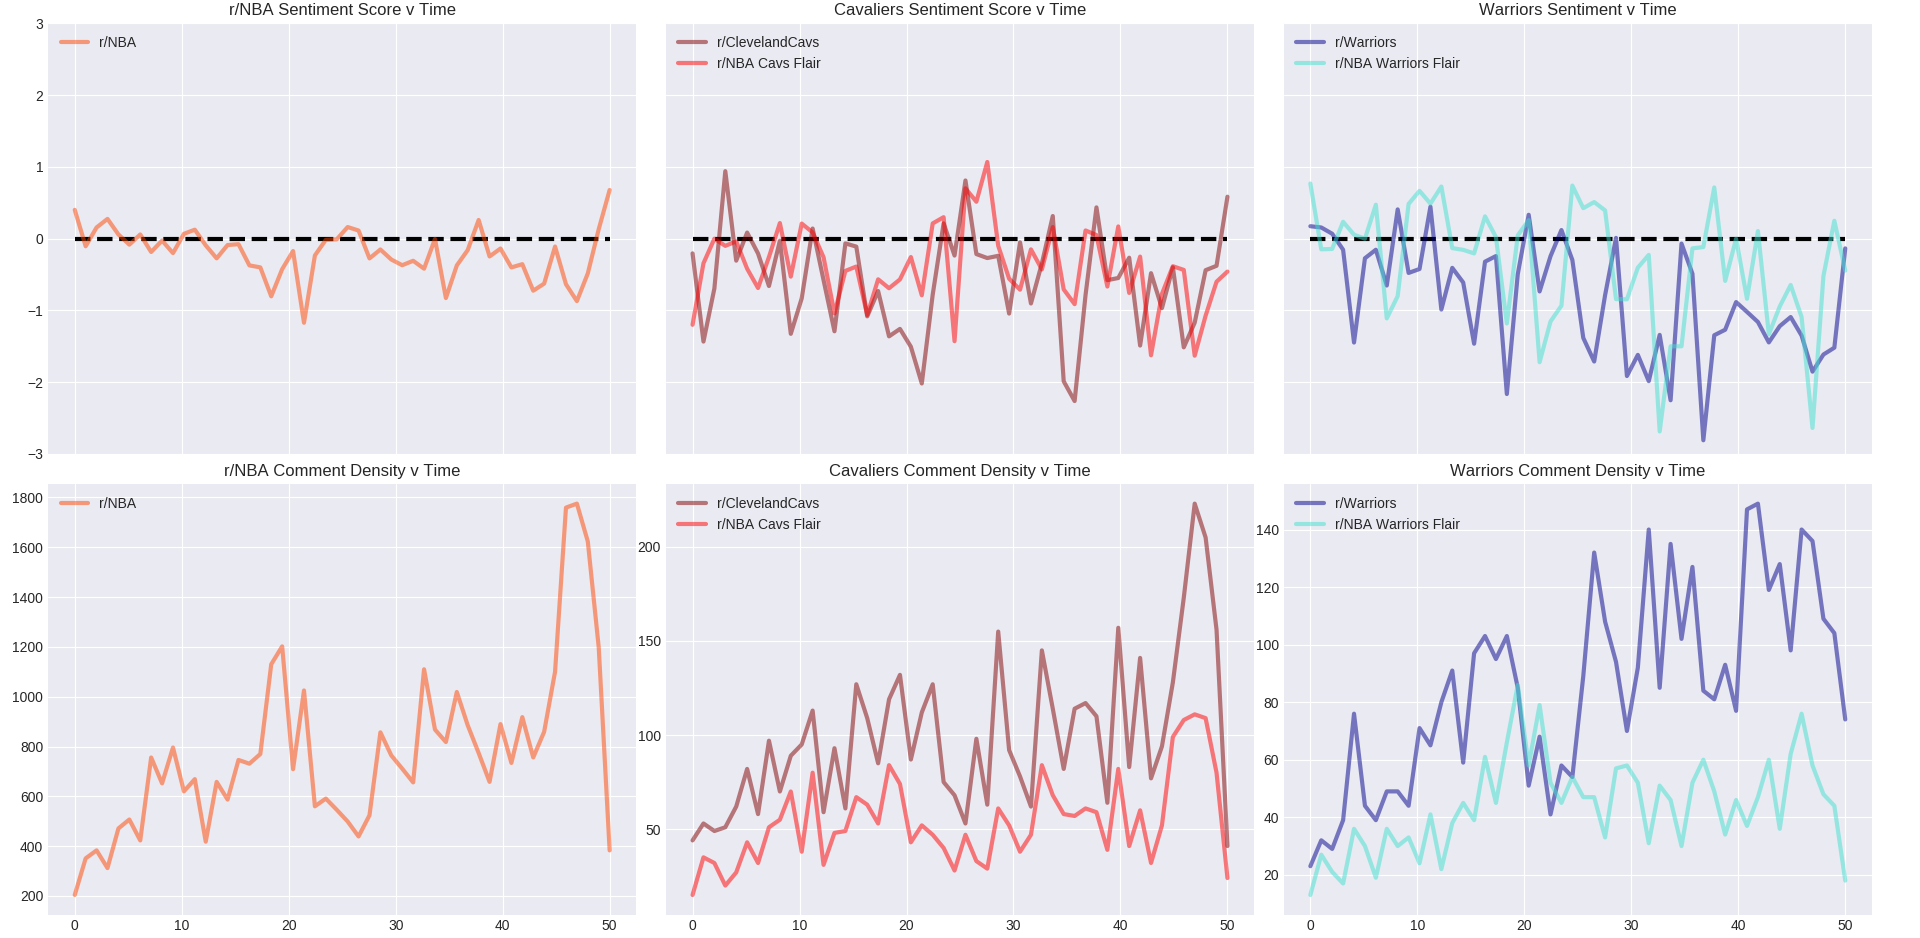
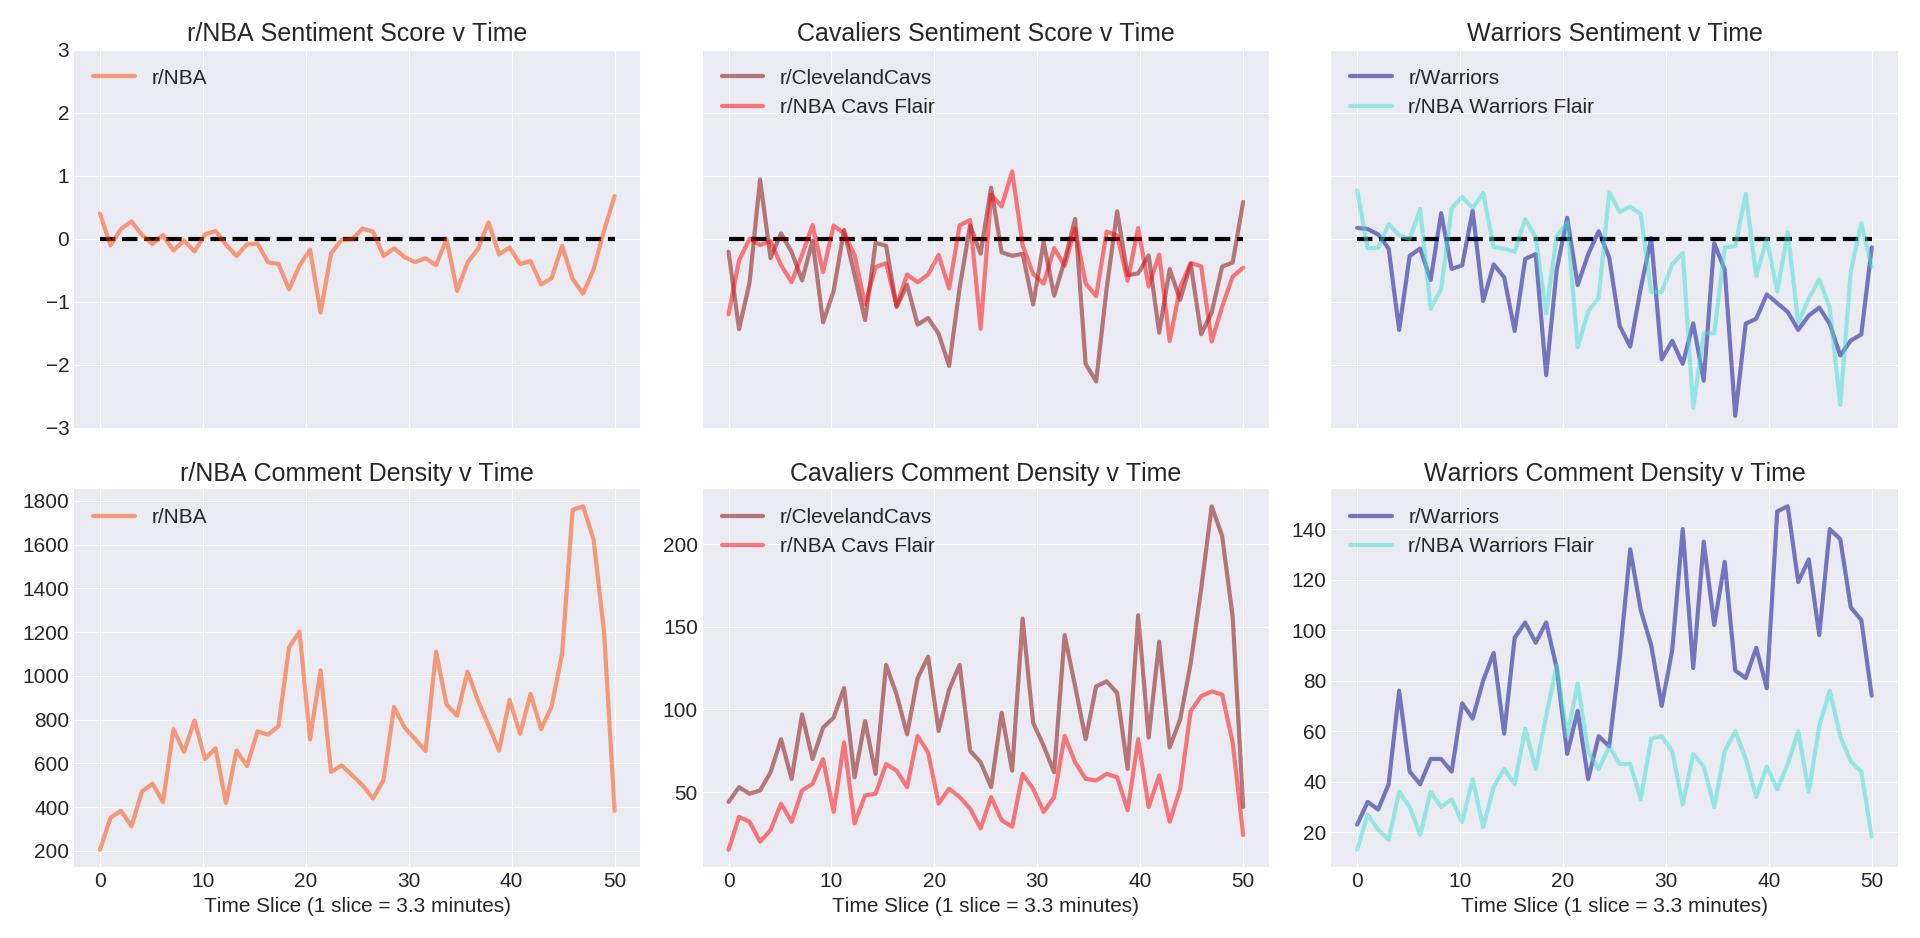
made plot fonts larger

diff --git a/src/SentimentScoreCommentDensityOverlap.py b/src/SentimentScoreCommentDensityOverlap.py
@@ -3,6 +3,7 @@ import numpy as np
 import pandas as pd 
 import matplotlib
 import matplotlib.pyplot as plt
+plt.rcParams.update({'font.size': 15})
 import PrepData
 plt.style.use('seaborn-darkgrid')
 bins = 50
@@ -74,5 +75,5 @@ def plot_density():
     plt.show()
 
 if __name__ == "__main__":
-    # plot_sentiment()
-    plot_density()
+    plot_sentiment()
+    # plot_density()

diff --git a/src/SentimentScoreCustomAfinn.py b/src/SentimentScoreCustomAfinn.py
@@ -2,6 +2,7 @@ import numpy as np
 import pandas as pd 
 import matplotlib
 import matplotlib.pyplot as plt
+plt.rcParams.update({'font.size': 15})
 import PrepData
 import scipy.stats as stats
 plt.style.use('seaborn-darkgrid')

diff --git a/src/SentimentScoreCommentDensity.py b/src/SentimentScoreCommentDensity.py
@@ -3,6 +3,7 @@ import numpy as np
 import pandas as pd 
 import matplotlib
 import matplotlib.pyplot as plt
+plt.rcParams.update({'font.size': 15})
 import PrepData
 plt.style.use('seaborn-darkgrid')
 bins = 50
